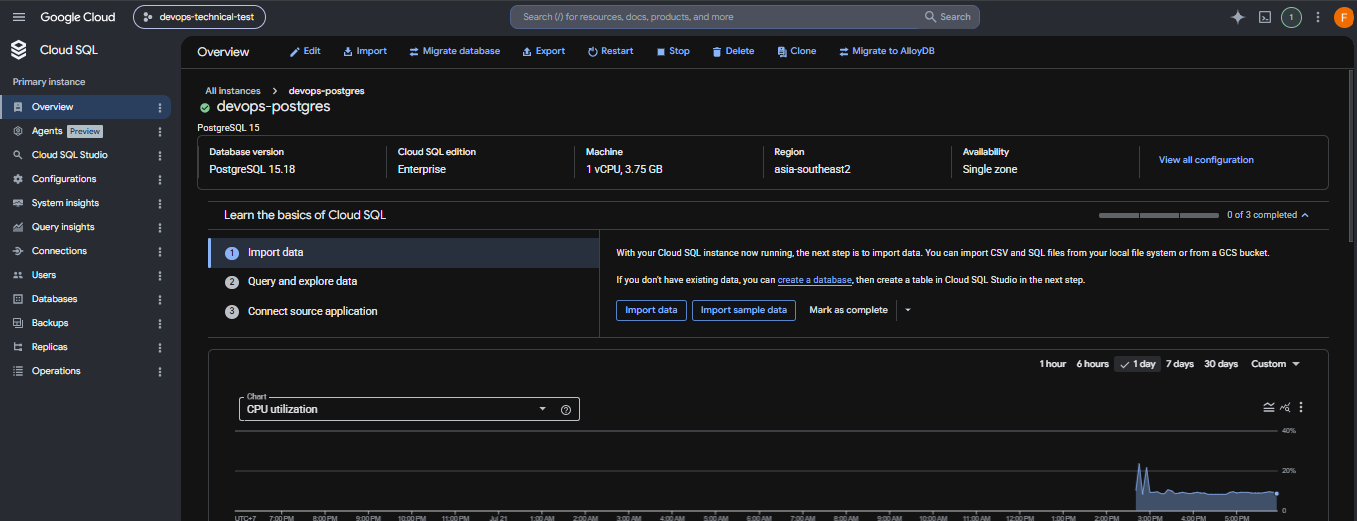
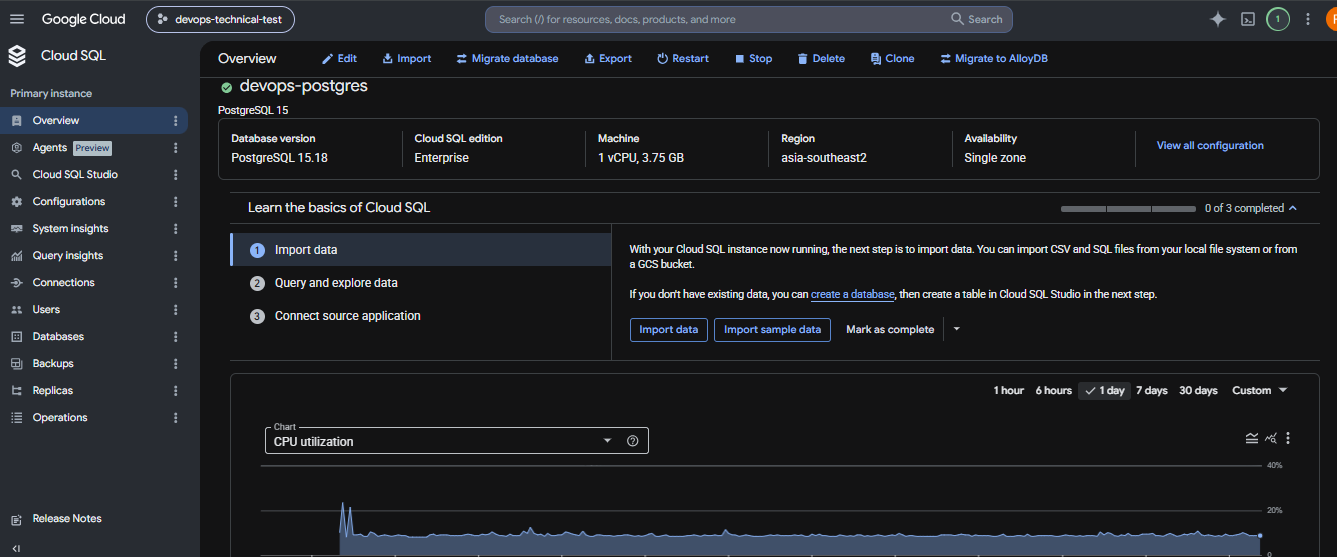
Edit Readme

diff --git a/docs/README.md b/docs/README.md
@@ -147,6 +147,15 @@ Health check dilakukan melalui endpoint:
 
 Apabila endpoint tersebut gagal dalam periode tertentu maka Alert Policy akan mengirimkan notifikasi sesuai konfigurasi yang dibuat.
 
+Saya juga melampirkan beberapa gambar pada folder `screenshots` pada repository dan mencoba membuat case sendiri
+
+`Uptime Check.png` - Bukti bahwa Uptime Check monitoring pada GCP berhasil diimplementasikan
+`CloudRun-Logs.png` - Memastikan log pada cloudrun berfungsi secara realtime
+`CloudSql.png` - Memastikan bahwa konfigurasi sql menggunakan PostgreSQL sudah terdeploy pada CloudSQL GCPdan sesuai dengan konfigurasi pada terraform
+`GCP - Alert.png` - Saya mencoba membuat satu case untuk mencoba bahwa Alert pada GCP Monitoring Alerting berfungsi
+`Alert - Email Notification.png` - Bukti bahwa Alert dari case yang saya coba masuk ke email
+`Alert - Email.png` - Isi dari Email Alert Notification
+
 ---
 
 # Deployment Flow